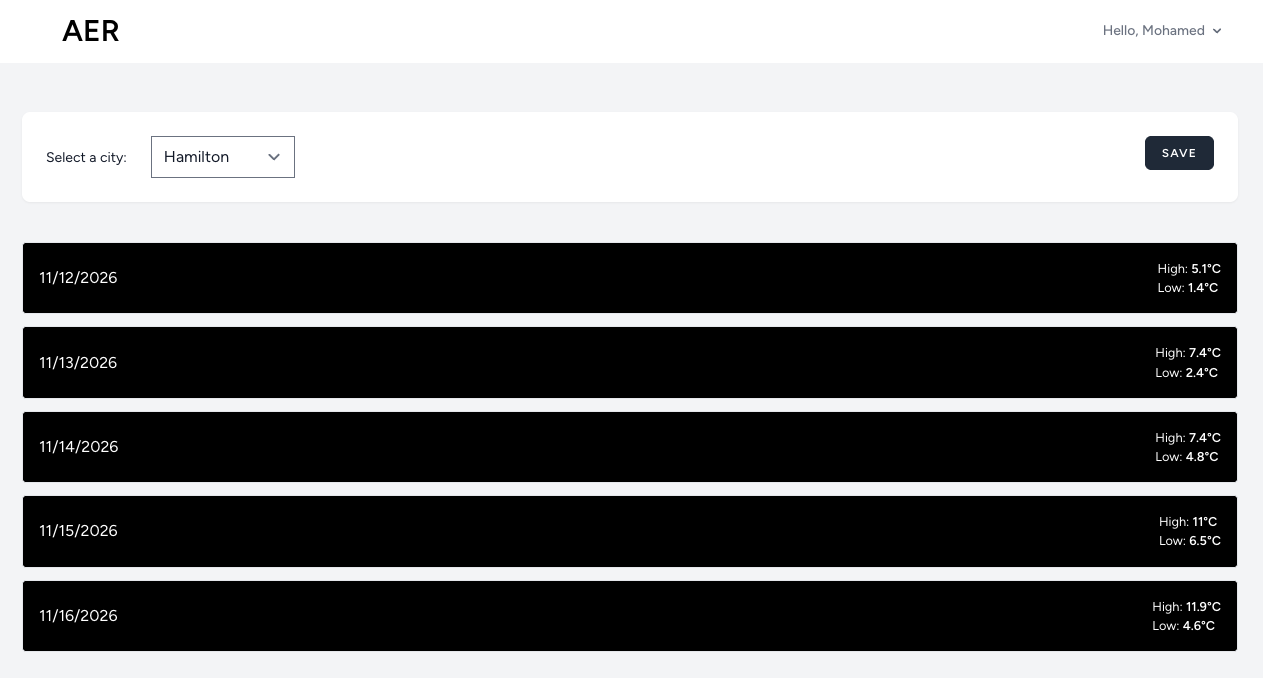
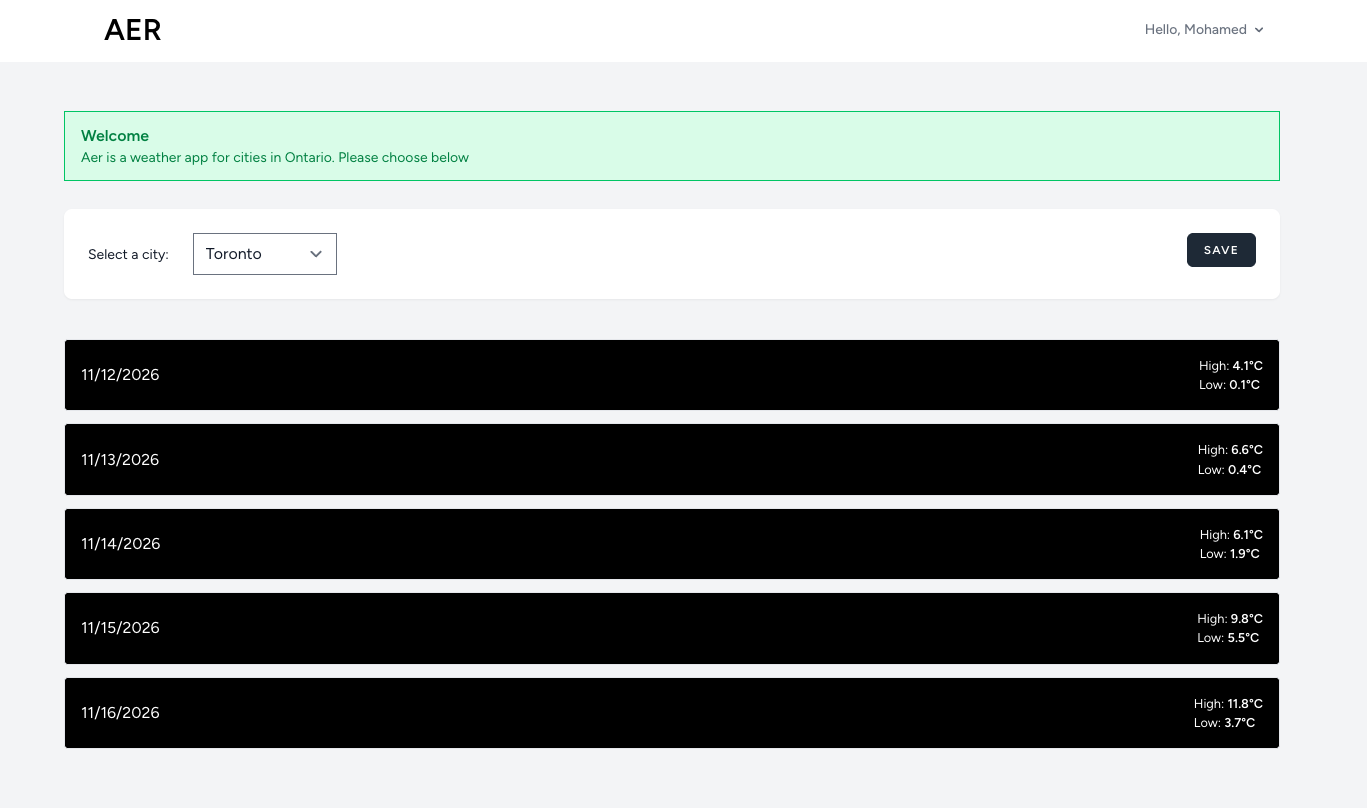
Update README.md

diff --git a/resources/views/home.blade.php b/resources/views/home.blade.php
@@ -5,7 +5,7 @@
           <template x-if="city_id != null">
             <div class="bg-green-100 border border-green-500 text-green-700 px-4 py-3 mb-7" role="alert">
               <p class="font-bold">Welcome</p>
-              <p class="text-sm">Aer is a weather app for cities in Ontario. Please choose above</p>
+              <p class="text-sm">Aer is a weather app for cities in Ontario. Please choose below</p>
             </div>
           </template>
         @endif
